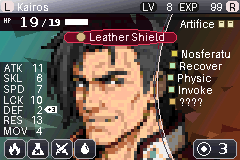
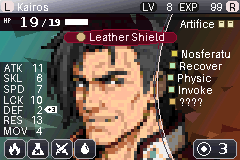
gris_final: sin contorno rosa en el recuadro del arma
Claude-Session: https://claude.ai/code/session_01C4QAM7MwvCQVjJLG12SBSt

diff --git a/gba_status/paleta_oficial.py b/gba_status/paleta_oficial.py
@@ -82,3 +82,5 @@ TURQUESA = [(10, 20, 24), (28, 56, 60), (40, 120, 116), (40, 184, 160), (200, 24
 ZONAS["gris_dual"] = [((0, 0, 239, 13), TURQUESA), ((60, 26, 180, 48), CARMESI)]
 TEMAS["gris_final"] = TEMAS["gris"]
 ZONAS["gris_final"] = [((60, 26, 180, 48), CARMESI)]  # solo el arma equipada en carmesi
+# sin contorno rosa: el tono mas claro del recuadro queda igual al carmesi
+ZONAS["gris_final"] = [((60, 26, 180, 48), [(12, 12, 16), (96, 8, 32), (150, 16, 48), (150, 16, 48), (150, 16, 48)])]
